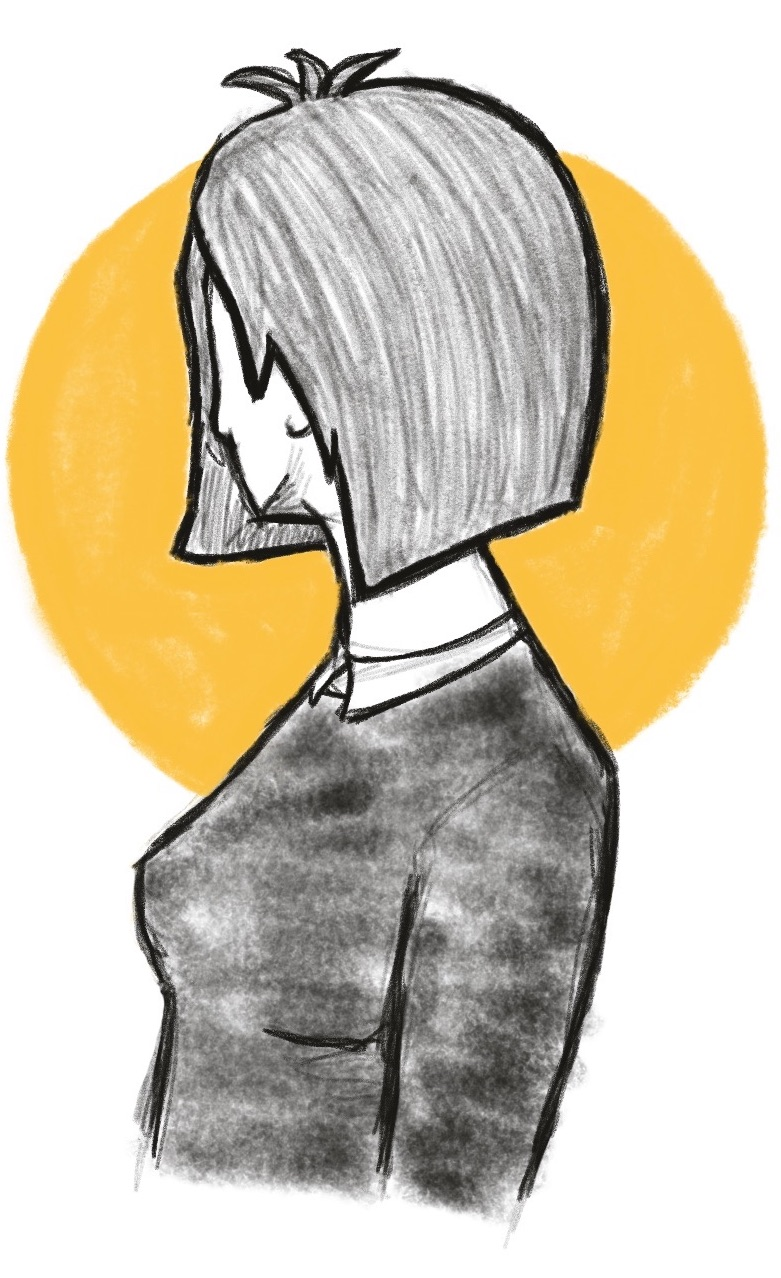
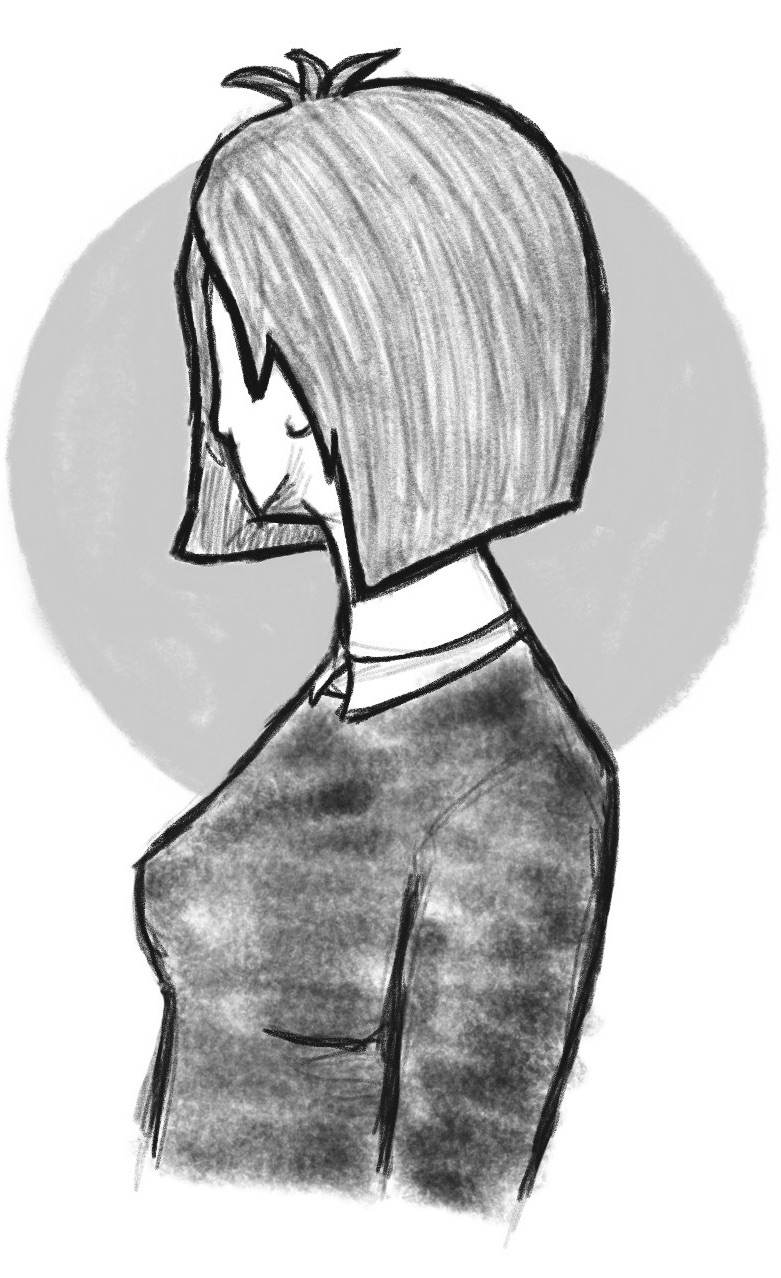
Make all images your own

Changed region(s): [[0.0, 0.1221, 0.4609, 0.6408], [0.6146, 0.1221, 0.9834, 0.6103]]

diff --git a/app/javascript/packs/telescope/assets/stylesheets/app.css b/app/javascript/packs/telescope/assets/stylesheets/app.css
@@ -567,7 +567,7 @@ input.newWeekPage-form-percentage {
 
 div.boardPageContent-noGoalsDiv {
   margin: auto;
-  margin-top: 70px;
+  margin-top: 35px;
   text-align: center;
 }
 
@@ -1057,7 +1057,7 @@ img.WelcomePageContent-GetStarted-Image {
   }
 
   div.boardPageContent-noGoalsDiv {
-    margin-top: 10px;
+    margin-top: 0px;
   }
 
   div.welcomePage-container {

diff --git a/app/javascript/packs/telescope/components/analyticsPageContent.jsx b/app/javascript/packs/telescope/components/analyticsPageContent.jsx
@@ -1,6 +1,6 @@
 import React from 'react';
 import { AreaChart, Area, Tooltip, XAxis, YAxis, ResponsiveContainer, Label, LabelList } from 'recharts';
-import NoGoalsGif from '../assets/images/man-shirt.gif';
+import NoGoalsGif from '../assets/images/balloonsketch.jpg';
 import moment from 'moment';
 
 function cleanWeeksDataForChart(weeks){

diff --git a/app/javascript/packs/telescope/components/boardPageContent.jsx b/app/javascript/packs/telescope/components/boardPageContent.jsx
@@ -1,6 +1,6 @@
 import React from 'react';
 import GoalLine from './goalLine';
-import NoGoalsBike from '../assets/images/bike.png';
+import NoGoalsBike from '../assets/images/balloonsketch.jpg';
 import BoardPageTitle from './boardPageTitle';
 import shortid from 'shortid';
 
